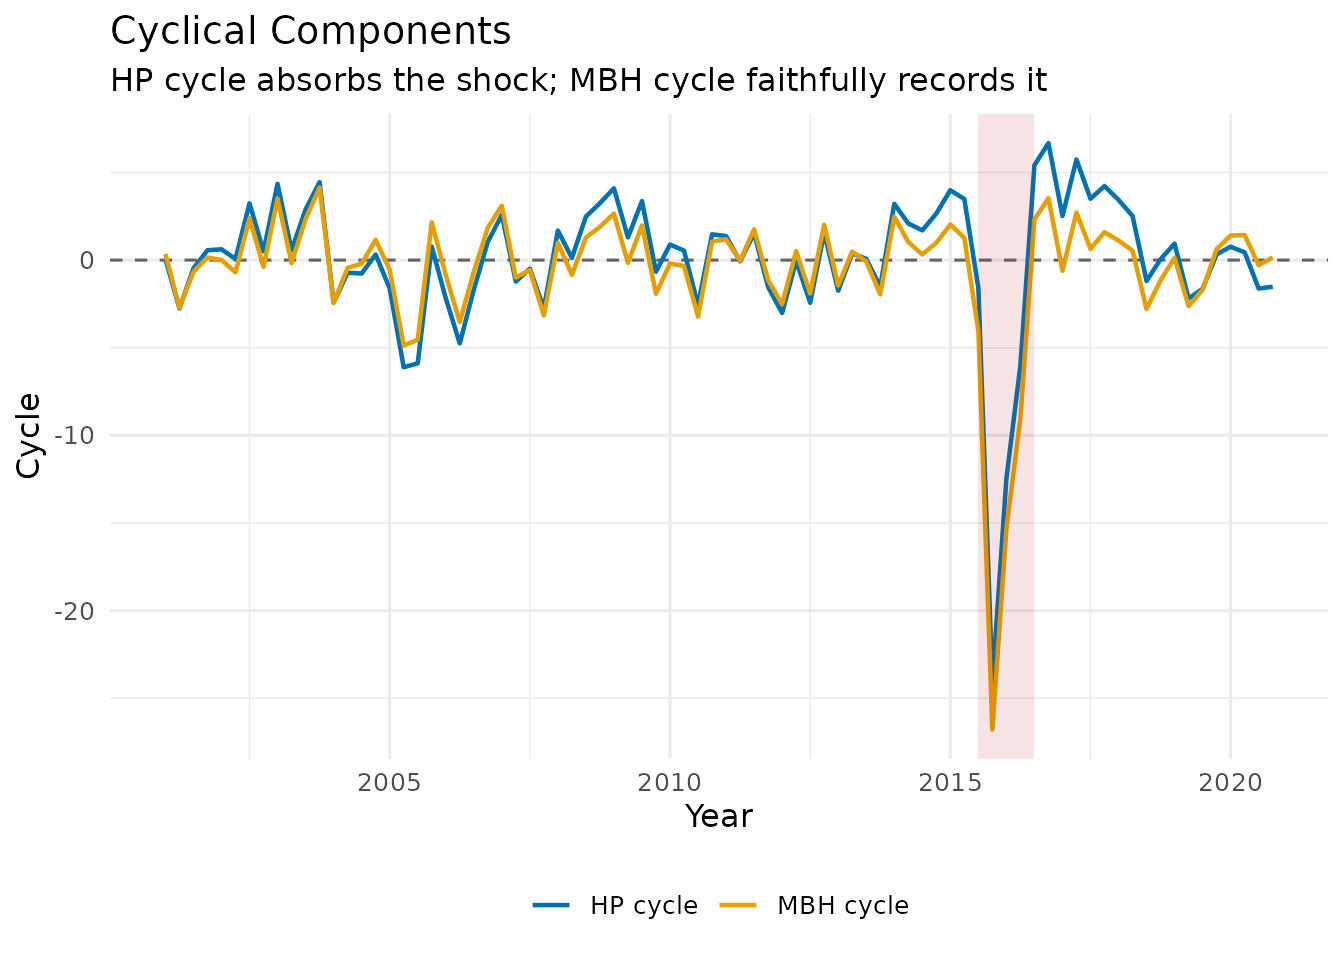
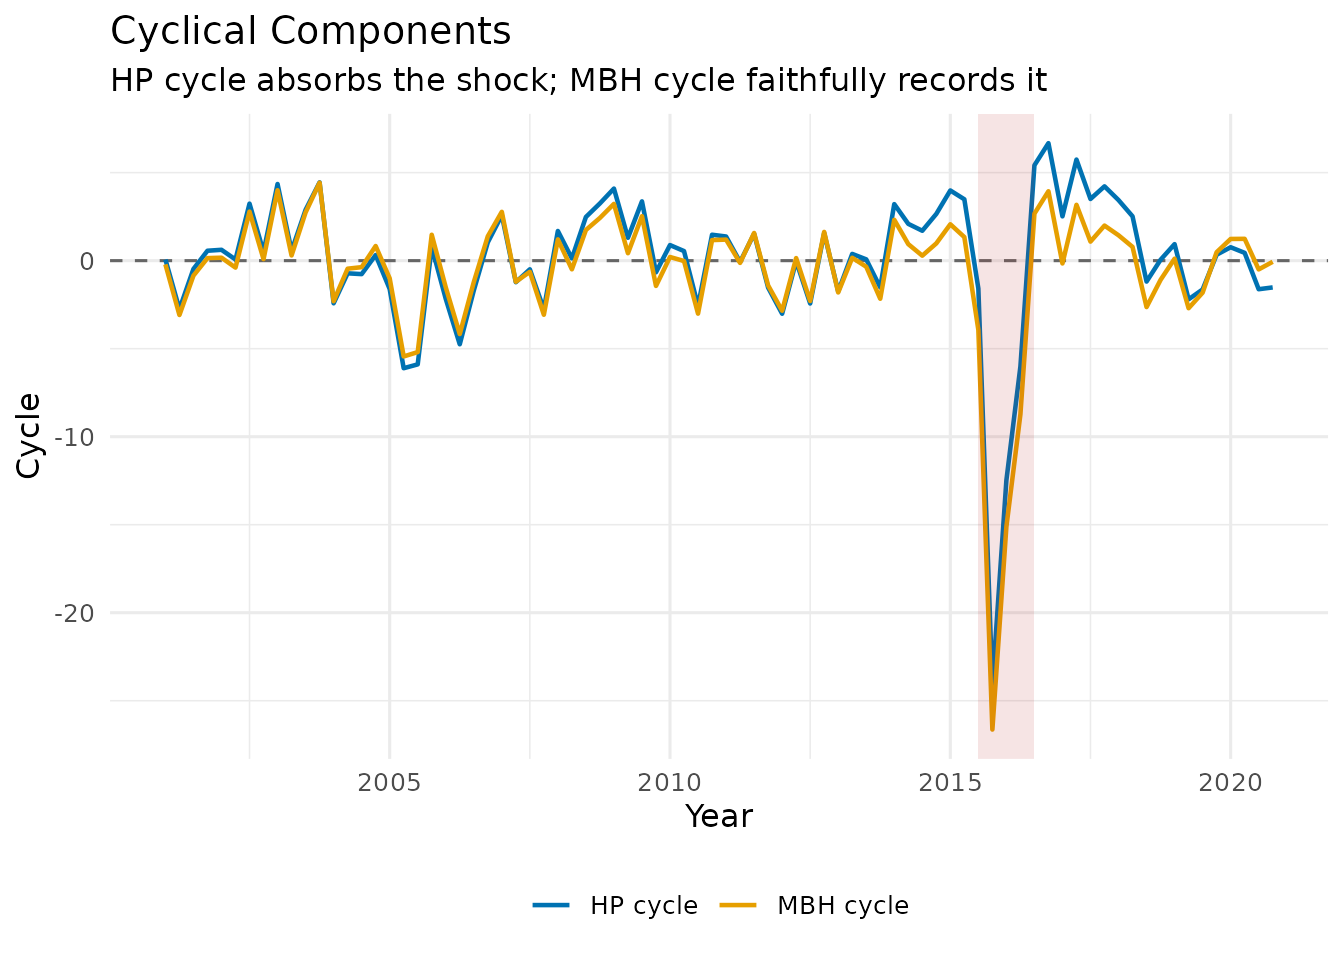
Deploying to gh-pages from @ michal0091/MacroFilters@9b2a241b9ff58cbc8752cf5544e46ae5363ca0a3 🚀

Changed region(s): [[0.125, 0.1875, 0.7188, 0.375], [0.75, 0.1875, 0.9688, 0.3125], [0.0312, 0.625, 0.0625, 0.6562]]

diff --git a/articles/introduction.html b/articles/introduction.html
@@ -308,7 +308,7 @@ test</td>
 <span><span class="co">#&gt;    Observations : 100</span></span>
 <span><span class="co">#&gt;    Parameters   : lambda = 1600, iterations = 47, stopping_rule = bic</span></span>
 <span><span class="co">#&gt;    Cycle range  : [-5.487, 4.068]  sd = 1.857</span></span>
-<span><span class="co">#&gt;    Compute time : 0.003 s</span></span></code></pre></div>
+<span><span class="co">#&gt;    Compute time : 0.004 s</span></span></code></pre></div>
 <p>Internally, <strong>MacroFilters</strong> precomputes the sparse
 penalty matrix
 <math display="inline" xmlns="http://www.w3.org/1998/Math/MathML"><semantics><mrow><mi>Q</mi><mo>=</mo><msup><mrow><mo stretchy="true" form="prefix">(</mo><mi>I</mi><mo>+</mo><mi>λ</mi><mi>D</mi><mi>′</mi><mi>D</mi><mo stretchy="true" form="postfix">)</mo></mrow><mrow><mo>−</mo><mn>1</mn></mrow></msup></mrow><annotation encoding="application/x-tex">Q = (I + \lambda D'D)^{-1}</annotation></semantics></math>
@@ -450,9 +450,9 @@ needed for index-level series.</p>
 <span><span class="va">mbh_res</span></span>
 <span><span class="co">#&gt; -- MacroFilter [MBH] --</span></span>
 <span><span class="co">#&gt;    Observations : 80</span></span>
-<span><span class="co">#&gt;    Parameters   : knots = 40, d = 2.789, mstop = 500, nu = 0.2</span></span>
-<span><span class="co">#&gt;    Cycle range  : [-26.79, 4.144]  sd = 4.048</span></span>
-<span><span class="co">#&gt;    Compute time : 0.129 s</span></span></code></pre></div>
+<span><span class="co">#&gt;    Parameters   : knots = 40, d = 2.789, mstop = 500, mstop_initial = 500, nu = 0.1, df = 4, select_mstop = FALSE</span></span>
+<span><span class="co">#&gt;    Cycle range  : [-26.64, 4.429]  sd = 4.087</span></span>
+<span><span class="co">#&gt;    Compute time : 0.128 s</span></span></code></pre></div>
 <p><img src="introduction_files/figure-html/mbh-plot-1.png" class="r-plt" alt="" width="100%"></p>
 <hr>
 </div>
@@ -498,9 +498,9 @@ needed for index-level series.</p>
 <code class="sourceCode R"><span><span class="va">mbh_res</span></span>
 <span><span class="co">#&gt; -- MacroFilter [MBH] --</span></span>
 <span><span class="co">#&gt;    Observations : 80</span></span>
-<span><span class="co">#&gt;    Parameters   : knots = 40, d = 2.789, mstop = 500, nu = 0.2</span></span>
-<span><span class="co">#&gt;    Cycle range  : [-26.79, 4.144]  sd = 4.048</span></span>
-<span><span class="co">#&gt;    Compute time : 0.129 s</span></span></code></pre></div>
+<span><span class="co">#&gt;    Parameters   : knots = 40, d = 2.789, mstop = 500, mstop_initial = 500, nu = 0.1, df = 4, select_mstop = FALSE</span></span>
+<span><span class="co">#&gt;    Cycle range  : [-26.64, 4.429]  sd = 4.087</span></span>
+<span><span class="co">#&gt;    Compute time : 0.128 s</span></span></code></pre></div>
 <p>The <code>print</code> method shows the method, the number of
 observations, the key parameters, the cycle range, and how long the
 filter took to run.</p>
@@ -511,10 +511,10 @@ filter took to run.</p>
 <div class="sourceCode" id="cb8"><pre class="downlit sourceCode r">
 <code class="sourceCode R"><span><span class="co"># Trend and cycle as plain vectors</span></span>
 <span><span class="fu"><a href="https://rdrr.io/r/utils/head.html" class="external-link">head</a></span><span class="op">(</span><span class="va">mbh_res</span><span class="op">$</span><span class="va">trend</span>, <span class="fl">8</span><span class="op">)</span></span>
-<span><span class="co">#&gt; [1] 102.9760 103.4037 103.8237 104.2267 104.5981 104.9223 105.1846 105.3732</span></span>
+<span><span class="co">#&gt; [1] 103.5415 103.7764 104.0074 104.2300 104.4373 104.6223 104.7785 104.9015</span></span>
 <span><span class="fu"><a href="https://rdrr.io/r/utils/head.html" class="external-link">head</a></span><span class="op">(</span><span class="va">mbh_res</span><span class="op">$</span><span class="va">cycle</span>, <span class="fl">8</span><span class="op">)</span></span>
-<span><span class="co">#&gt; [1]  0.353030970 -2.715484756 -0.666295792  0.147056328  0.007018801</span></span>
-<span><span class="co">#&gt; [6] -0.696028779  2.381124338 -0.386268292</span></span>
+<span><span class="co">#&gt; [1] -0.21246933 -3.08814252 -0.85000087  0.14375249  0.16777488 -0.39598786</span></span>
+<span><span class="co">#&gt; [7]  2.78720646  0.08539543</span></span>
 <span></span>
 <span><span class="co"># Verify the fundamental identity: trend + cycle == data</span></span>
 <span><span class="fu"><a href="https://rdrr.io/r/base/Extremes.html" class="external-link">max</a></span><span class="op">(</span><span class="fu"><a href="https://rdrr.io/r/base/MathFun.html" class="external-link">abs</a></span><span class="op">(</span><span class="op">(</span><span class="va">mbh_res</span><span class="op">$</span><span class="va">trend</span> <span class="op">+</span> <span class="va">mbh_res</span><span class="op">$</span><span class="va">cycle</span><span class="op">)</span> <span class="op">-</span> <span class="va">mbh_res</span><span class="op">$</span><span class="va">data</span><span class="op">)</span><span class="op">)</span>  <span class="co"># should be &lt; 1e-9</span></span>
@@ -525,13 +525,16 @@ filter took to run.</p>
 </h3>
 <div class="sourceCode" id="cb9"><pre class="downlit sourceCode r">
 <code class="sourceCode R"><span><span class="fu"><a href="https://rdrr.io/r/utils/str.html" class="external-link">str</a></span><span class="op">(</span><span class="va">mbh_res</span><span class="op">$</span><span class="va">meta</span><span class="op">)</span></span>
-<span><span class="co">#&gt; List of 6</span></span>
-<span><span class="co">#&gt;  $ method      : chr "MBH"</span></span>
-<span><span class="co">#&gt;  $ knots       : int 40</span></span>
-<span><span class="co">#&gt;  $ d           : num 2.79</span></span>
-<span><span class="co">#&gt;  $ mstop       : int 500</span></span>
-<span><span class="co">#&gt;  $ nu          : num 0.2</span></span>
-<span><span class="co">#&gt;  $ compute_time: num 0.129</span></span></code></pre></div>
+<span><span class="co">#&gt; List of 9</span></span>
+<span><span class="co">#&gt;  $ method       : chr "MBH"</span></span>
+<span><span class="co">#&gt;  $ knots        : int 40</span></span>
+<span><span class="co">#&gt;  $ d            : num 2.79</span></span>
+<span><span class="co">#&gt;  $ mstop        : int 500</span></span>
+<span><span class="co">#&gt;  $ mstop_initial: int 500</span></span>
+<span><span class="co">#&gt;  $ nu           : num 0.1</span></span>
+<span><span class="co">#&gt;  $ df           : int 4</span></span>
+<span><span class="co">#&gt;  $ select_mstop : logi FALSE</span></span>
+<span><span class="co">#&gt;  $ compute_time : num 0.128</span></span></code></pre></div>
 <p>The <code>meta</code> list stores every parameter used by the filter,
 making results fully reproducible from the object alone — no need to
 track arguments separately.</p>

diff --git a/reference/mbh_filter.html b/reference/mbh_filter.html
@@ -117,9 +117,9 @@ of the Huber loss.</p>
 <span class="r-in"><span><span class="fu"><a href="https://rdrr.io/r/base/print.html" class="external-link">print</a></span><span class="op">(</span><span class="va">result</span><span class="op">)</span></span></span>
 <span class="r-out co"><span class="r-pr">#&gt;</span> -- MacroFilter [MBH] --</span>
 <span class="r-out co"><span class="r-pr">#&gt;</span>    Observations : 200</span>
-<span class="r-out co"><span class="r-pr">#&gt;</span>    Parameters   : knots = 100, d = 0.9445, mstop = 500, nu = 0.2</span>
-<span class="r-out co"><span class="r-pr">#&gt;</span>    Cycle range  : [-4.111, 4.701]  sd = 1.597</span>
-<span class="r-out co"><span class="r-pr">#&gt;</span>    Compute time : 0.191 s</span>
+<span class="r-out co"><span class="r-pr">#&gt;</span>    Parameters   : knots = 100, d = 0.9445, mstop = 500, mstop_initial = 500, nu = 0.1, df = 4, select_mstop = FALSE</span>
+<span class="r-out co"><span class="r-pr">#&gt;</span>    Cycle range  : [-4.17, 5.05]  sd = 1.721</span>
+<span class="r-out co"><span class="r-pr">#&gt;</span>    Compute time : 0.202 s</span>
 </code></pre></div>
     </div>
   </main><aside class="col-md-3"><nav id="toc" aria-label="Table of contents"><h2>On this page</h2>

diff --git a/reference/bhp_filter.html b/reference/bhp_filter.html
@@ -145,7 +145,7 @@ Filter. <em>International Economic Review</em>, 62(2), 521–570.</p>
 <span class="r-out co"><span class="r-pr">#&gt;</span>    Observations : 200</span>
 <span class="r-out co"><span class="r-pr">#&gt;</span>    Parameters   : lambda = 1600, iterations = 93, stopping_rule = bic</span>
 <span class="r-out co"><span class="r-pr">#&gt;</span>    Cycle range  : [-1.728, 1.688]  sd = 0.6928</span>
-<span class="r-out co"><span class="r-pr">#&gt;</span>    Compute time : 0.010 s</span>
+<span class="r-out co"><span class="r-pr">#&gt;</span>    Compute time : 0.009 s</span>
 </code></pre></div>
     </div>
   </main><aside class="col-md-3"><nav id="toc" aria-label="Table of contents"><h2>On this page</h2>

diff --git a/reference/hp_filter.html b/reference/hp_filter.html
@@ -112,7 +112,7 @@ for the Frequency of Observations. <em>Review of Economics and Statistics</em>,
 <span class="r-out co"><span class="r-pr">#&gt;</span>    Observations : 200</span>
 <span class="r-out co"><span class="r-pr">#&gt;</span>    Parameters   : lambda = 1600</span>
 <span class="r-out co"><span class="r-pr">#&gt;</span>    Cycle range  : [-2.878, 3.83]  sd = 1.387</span>
-<span class="r-out co"><span class="r-pr">#&gt;</span>    Compute time : 0.003 s</span>
+<span class="r-out co"><span class="r-pr">#&gt;</span>    Compute time : 0.002 s</span>
 </code></pre></div>
     </div>
   </main><aside class="col-md-3"><nav id="toc" aria-label="Table of contents"><h2>On this page</h2>

diff --git a/articles/introduction.md b/articles/introduction.md
@@ -187,7 +187,7 @@ bhp
 #>    Observations : 100
 #>    Parameters   : lambda = 1600, iterations = 47, stopping_rule = bic
 #>    Cycle range  : [-5.487, 4.068]  sd = 1.857
-#>    Compute time : 0.003 s
+#>    Compute time : 0.004 s
 ```
 
 Internally, **MacroFilters** precomputes the sparse penalty matrix
@@ -287,9 +287,9 @@ mbh_res <- mbh_filter(gdp)
 mbh_res
 #> -- MacroFilter [MBH] --
 #>    Observations : 80
-#>    Parameters   : knots = 40, d = 2.789, mstop = 500, nu = 0.2
-#>    Cycle range  : [-26.79, 4.144]  sd = 4.048
-#>    Compute time : 0.129 s
+#>    Parameters   : knots = 40, d = 2.789, mstop = 500, mstop_initial = 500, nu = 0.1, df = 4, select_mstop = FALSE
+#>    Cycle range  : [-26.64, 4.429]  sd = 4.087
+#>    Compute time : 0.128 s
 ```
 
 ![](introduction_files/figure-html/mbh-plot-1.png)
@@ -314,9 +314,9 @@ list with three named elements:
 mbh_res
 #> -- MacroFilter [MBH] --
 #>    Observations : 80
-#>    Parameters   : knots = 40, d = 2.789, mstop = 500, nu = 0.2
-#>    Cycle range  : [-26.79, 4.144]  sd = 4.048
-#>    Compute time : 0.129 s
+#>    Parameters   : knots = 40, d = 2.789, mstop = 500, mstop_initial = 500, nu = 0.1, df = 4, select_mstop = FALSE
+#>    Cycle range  : [-26.64, 4.429]  sd = 4.087
+#>    Compute time : 0.128 s
 ```
 
 The `print` method shows the method, the number of observations, the key
@@ -327,10 +327,10 @@ parameters, the cycle range, and how long the filter took to run.
 ``` r
 # Trend and cycle as plain vectors
 head(mbh_res$trend, 8)
-#> [1] 102.9760 103.4037 103.8237 104.2267 104.5981 104.9223 105.1846 105.3732
+#> [1] 103.5415 103.7764 104.0074 104.2300 104.4373 104.6223 104.7785 104.9015
 head(mbh_res$cycle, 8)
-#> [1]  0.353030970 -2.715484756 -0.666295792  0.147056328  0.007018801
-#> [6] -0.696028779  2.381124338 -0.386268292
+#> [1] -0.21246933 -3.08814252 -0.85000087  0.14375249  0.16777488 -0.39598786
+#> [7]  2.78720646  0.08539543
 
 # Verify the fundamental identity: trend + cycle == data
 max(abs((mbh_res$trend + mbh_res$cycle) - mbh_res$data))  # should be < 1e-9
@@ -341,13 +341,16 @@ max(abs((mbh_res$trend + mbh_res$cycle) - mbh_res$data))  # should be < 1e-9
 
 ``` r
 str(mbh_res$meta)
-#> List of 6
-#>  $ method      : chr "MBH"
-#>  $ knots       : int 40
-#>  $ d           : num 2.79
-#>  $ mstop       : int 500
-#>  $ nu          : num 0.2
-#>  $ compute_time: num 0.129
+#> List of 9
+#>  $ method       : chr "MBH"
+#>  $ knots        : int 40
+#>  $ d            : num 2.79
+#>  $ mstop        : int 500
+#>  $ mstop_initial: int 500
+#>  $ nu           : num 0.1
+#>  $ df           : int 4
+#>  $ select_mstop : logi FALSE
+#>  $ compute_time : num 0.128
 ```
 
 The `meta` list stores every parameter used by the filter, making

diff --git a/reference/mbh_filter.md b/reference/mbh_filter.md
@@ -79,7 +79,7 @@ result <- mbh_filter(y)
 print(result)
 #> -- MacroFilter [MBH] --
 #>    Observations : 200
-#>    Parameters   : knots = 100, d = 0.9445, mstop = 500, nu = 0.2
-#>    Cycle range  : [-4.111, 4.701]  sd = 1.597
-#>    Compute time : 0.191 s
+#>    Parameters   : knots = 100, d = 0.9445, mstop = 500, mstop_initial = 500, nu = 0.1, df = 4, select_mstop = FALSE
+#>    Cycle range  : [-4.17, 5.05]  sd = 1.721
+#>    Compute time : 0.202 s
 ```

diff --git a/reference/bhp_filter.md b/reference/bhp_filter.md
@@ -94,5 +94,5 @@ print(result)
 #>    Observations : 200
 #>    Parameters   : lambda = 1600, iterations = 93, stopping_rule = bic
 #>    Cycle range  : [-1.728, 1.688]  sd = 0.6928
-#>    Compute time : 0.010 s
+#>    Compute time : 0.009 s
 ```

diff --git a/reference/hp_filter.md b/reference/hp_filter.md
@@ -71,5 +71,5 @@ print(result)
 #>    Observations : 200
 #>    Parameters   : lambda = 1600
 #>    Cycle range  : [-2.878, 3.83]  sd = 1.387
-#>    Compute time : 0.003 s
+#>    Compute time : 0.002 s
 ```
